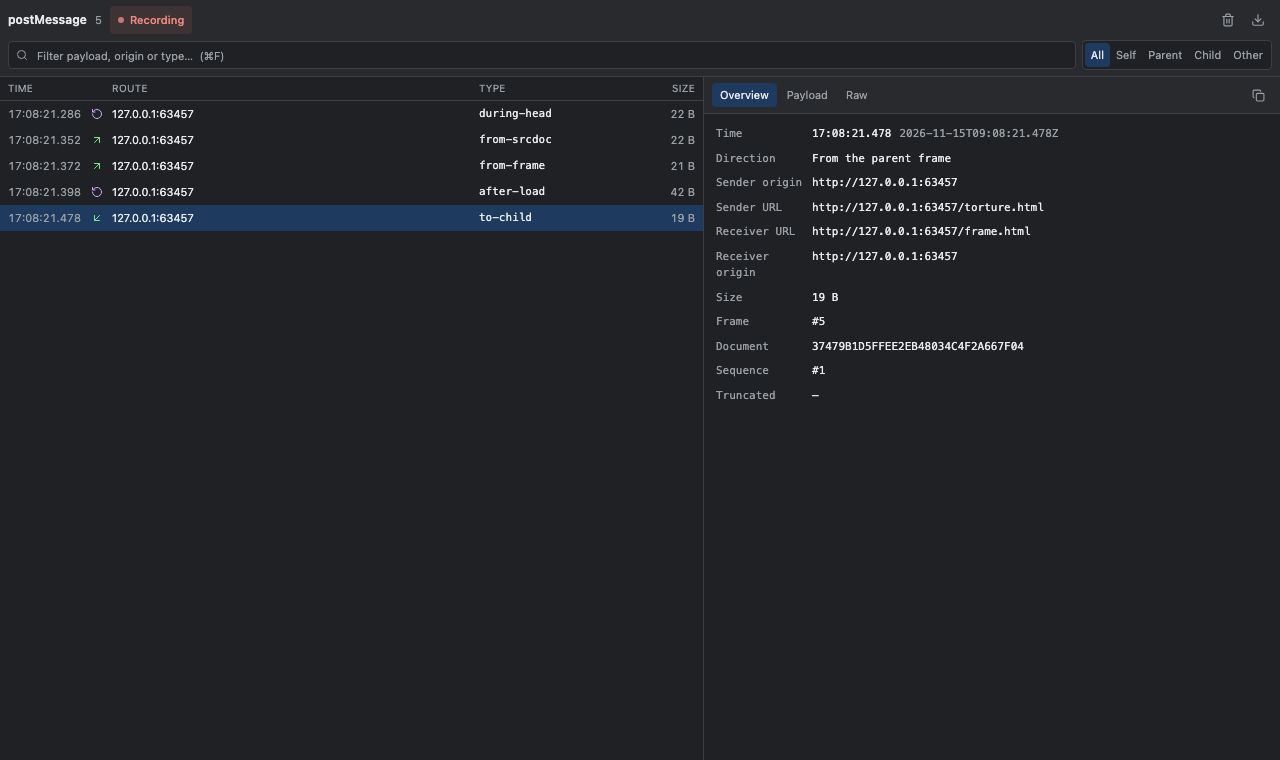
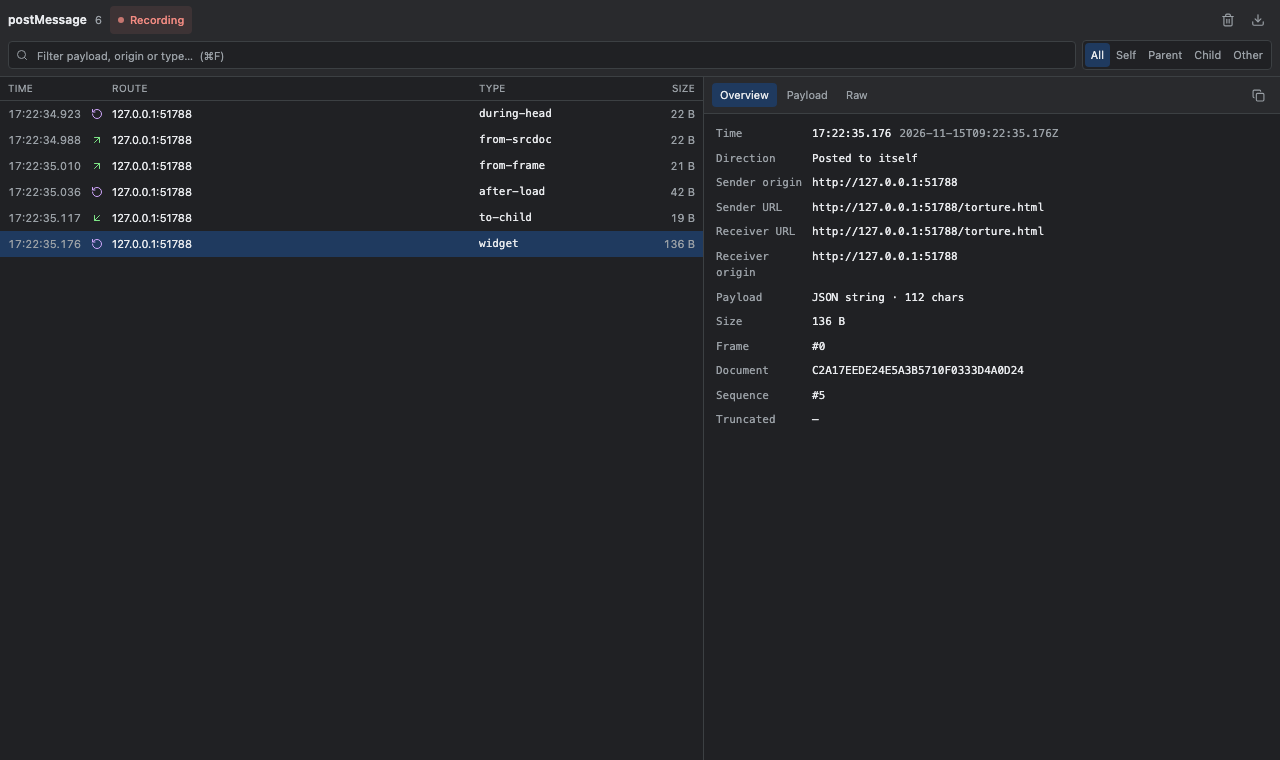
feat: enhance payload handling with JSON string parsing and new PayloadPane component

diff --git a/components/panel/MessageDetail.tsx b/components/panel/MessageDetail.tsx
@@ -1,12 +1,13 @@
 import { Copy, TriangleAlert } from 'lucide-react';
 import { useState, type ReactNode } from 'react';
 import { copyText, prettyJson } from '../../lib/clipboard';
-import { isMarker } from '../../lib/describe';
+import { isMarker, shapeOf } from '../../lib/describe';
+import { parseJsonString } from '../../lib/json-string';
 import { formatBytes, formatClock } from '../../lib/format';
 import { MARKER, isOpaqueOrigin, type CapturedMessage } from '../../lib/protocol';
 import { cn } from '../../lib/utils';
 import { IconButton } from '../ui/IconButton';
-import { PayloadTree } from './PayloadTree';
+import { PayloadPane } from './PayloadPane';
 import { directionLabel } from './types';
 
 export type DetailTab = 'overview' | 'payload' | 'raw';
@@ -56,6 +57,13 @@ function warningsFor(entry: CapturedMessage): string[] {
   return warnings;
 }
 
+function payloadSummary(data: CapturedMessage['data']): string {
+  const parsed = parseJsonString(data);
+  if (parsed?.kind === 'json') return `JSON string · ${parsed.text.length} chars`;
+  if (typeof data === 'string') return `string · ${data.length} chars`;
+  return shapeOf(data);
+}
+
 function Overview({ entry }: { entry: CapturedMessage }) {
   const warnings = warningsFor(entry);
   const truncated = entry.truncated
@@ -81,6 +89,7 @@ function Overview({ entry }: { entry: CapturedMessage }) {
         <Field label="Sender URL">{entry.sender.url ?? '—'}</Field>
         <Field label="Receiver URL">{entry.receiver.url}</Field>
         <Field label="Receiver origin">{entry.receiver.origin}</Field>
+        <Field label="Payload">{payloadSummary(entry.data)}</Field>
         <Field label="Size">{formatBytes(entry.size)}</Field>
         <Field label="Frame">#{entry.frameId}</Field>
         <Field label="Document">{entry.documentId ?? '—'}</Field>
@@ -156,13 +165,19 @@ export function MessageDetail({ entry, tab, onTabChange }: MessageDetailProps) {
         </div>
       </div>
 
-      <div className="pmc-scroll min-h-0 flex-1 overflow-auto">
-        {tab === 'overview' ? <Overview entry={entry} /> : null}
-        {tab === 'payload' ? <PayloadTree value={entry.data} /> : null}
+      <div className="flex min-h-0 flex-1 flex-col">
+        {tab === 'overview' ? (
+          <div className="pmc-scroll min-h-0 flex-1 overflow-auto">
+            <Overview entry={entry} />
+          </div>
+        ) : null}
+        {tab === 'payload' ? <PayloadPane data={entry.data} /> : null}
         {tab === 'raw' ? (
-          <pre className="whitespace-pre-wrap break-all p-3 font-mono text-[11px] leading-[1.6]">
-            {prettyJson(entry.data)}
-          </pre>
+          <div className="pmc-scroll min-h-0 flex-1 overflow-auto">
+            <pre className="whitespace-pre-wrap break-all p-3 font-mono text-[11px] leading-[1.6]">
+              {prettyJson(entry.data)}
+            </pre>
+          </div>
         ) : null}
       </div>
     </div>

diff --git a/components/panel/PayloadPane.tsx b/components/panel/PayloadPane.tsx
@@ -1,0 +1,68 @@
+import { useMemo, useState } from 'react';
+import { parseJsonString } from '../../lib/json-string';
+import type { JsonValue } from '../../lib/protocol';
+import { cn } from '../../lib/utils';
+import { PayloadTree } from './PayloadTree';
+
+type Mode = 'parsed' | 'text';
+
+const MODES: Array<{ id: Mode; label: string }> = [
+  { id: 'parsed', label: 'Parsed' },
+  { id: 'text', label: 'Text' },
+];
+
+/**
+ * Payload tab content. When the message body is a JSON *string* (a very common
+ * widget/SDK pattern), it is parsed into the same tree view the Network panel
+ * uses, with a one-click switch back to the original text.
+ */
+export function PayloadPane({ data }: { data: JsonValue }) {
+  const parsed = useMemo(() => parseJsonString(data), [data]);
+  const [mode, setMode] = useState<Mode>(parsed ? 'parsed' : 'text');
+
+  if (!parsed) {
+    return (
+      <div className="pmc-scroll min-h-0 flex-1 overflow-auto">
+        <PayloadTree value={data} />
+      </div>
+    );
+  }
+
+  return (
+    <div className="flex min-h-0 flex-1 flex-col">
+      <div className="flex shrink-0 items-center gap-2 border-b border-line bg-raised px-2 py-1">
+        <span className="rounded bg-accent/10 px-1.5 py-0.5 text-[10px] font-medium text-accent">
+          JSON string
+        </span>
+        <span className="min-w-0 truncate text-[10px] text-muted">
+          {parsed.text.length} chars · parsed for reading
+        </span>
+        <div className="ml-auto flex shrink-0 items-center rounded border border-line bg-surface p-0.5">
+          {MODES.map((option) => (
+            <button
+              key={option.id}
+              type="button"
+              onClick={() => setMode(option.id)}
+              aria-pressed={mode === option.id}
+              className={cn(
+                'h-5 rounded px-1.5 text-[10px] text-muted transition-colors hover:text-ink',
+                mode === option.id && 'bg-selected text-ink',
+              )}
+            >
+              {option.label}
+            </button>
+          ))}
+        </div>
+      </div>
+      <div className="pmc-scroll min-h-0 flex-1 overflow-auto">
+        {mode === 'parsed' ? (
+          <PayloadTree value={parsed.value} />
+        ) : (
+          <pre className="whitespace-pre-wrap break-all p-2 font-mono text-[11px] leading-[1.6]">
+            {parsed.text}
+          </pre>
+        )}
+      </div>
+    </div>
+  );
+}

diff --git a/lib/json-string.test.ts b/lib/json-string.test.ts
@@ -1,0 +1,47 @@
+import { describe, expect, it } from 'vitest';
+import { parseJsonString } from './json-string';
+
+describe('parseJsonString', () => {
+  it('parses an object encoded as a string', () => {
+    const text = '{"type":"widget","event":"command","args":["onStateChange"],"id":3}';
+    const parsed = parseJsonString(text);
+    expect(parsed?.kind).toBe('json');
+    if (parsed?.kind !== 'json') return;
+    expect(parsed.text).toBe(text);
+    expect(parsed.value).toEqual({
+      type: 'widget',
+      event: 'command',
+      args: ['onStateChange'],
+      id: 3,
+    });
+  });
+
+  it('parses arrays and ignores surrounding whitespace', () => {
+    const parsed = parseJsonString('  [1,2,3]  ');
+    expect(parsed?.kind).toBe('json');
+    if (parsed?.kind !== 'json') return;
+    expect(parsed.value).toEqual([1, 2, 3]);
+    expect(parsed.text).toBe('  [1,2,3]  ');
+  });
+
+  it('rejects everything that is not a JSON object/array string', () => {
+    expect(parseJsonString({ a: 1 })).toBeNull();
+    expect(parseJsonString(null)).toBeNull();
+    expect(parseJsonString(42)).toBeNull();
+    expect(parseJsonString('')).toBeNull();
+    expect(parseJsonString('   ')).toBeNull();
+    expect(parseJsonString('hello')).toBeNull();
+    expect(parseJsonString('123')).toBeNull();
+    expect(parseJsonString('"a string"')).toBeNull();
+    expect(parseJsonString('null')).toBeNull();
+    expect(parseJsonString('true')).toBeNull();
+    expect(parseJsonString('{"type":"broken"')).toBeNull();
+    expect(parseJsonString('[1,2')).toBeNull();
+    expect(parseJsonString('{ not json }')).toBeNull();
+  });
+
+  it('rejects a leading JSON-looking character that is not JSON', () => {
+    expect(parseJsonString('{hello}')).toBeNull();
+    expect(parseJsonString('[oops]')).toBeNull();
+  });
+});

diff --git a/lib/json-string.ts b/lib/json-string.ts
@@ -1,0 +1,37 @@
+import type { JsonValue } from './protocol';
+
+/**
+ * SDKs and widgets often post a JSON-encoded *string* instead of an object.
+ * Showing that as one escaped line is unreadable, so the panel detects it and
+ * offers a parsed tree plus the original text.
+ */
+
+export interface JsonStringPayload {
+  kind: 'json';
+  value: JsonValue;
+  text: string;
+}
+
+const MAX_PARSE_LENGTH = 2_000_000;
+
+/**
+ * Returns `null` when the value is not a string holding a JSON object/array.
+ * Scalars (`"123"`, `"null"`) are deliberately not treated as JSON payloads.
+ */
+export function parseJsonString(data: JsonValue): JsonStringPayload | null {
+  if (typeof data !== 'string') return null;
+  if (data.length > MAX_PARSE_LENGTH) return null;
+
+  const trimmed = data.trim();
+  if (trimmed.length < 2) return null;
+  const first = trimmed[0];
+  if (first !== '{' && first !== '[') return null;
+
+  try {
+    const value = JSON.parse(trimmed) as JsonValue;
+    if (value === null || typeof value !== 'object') return null;
+    return { kind: 'json', value, text: data };
+  } catch {
+    return null;
+  }
+}

diff --git a/lib/describe.ts b/lib/describe.ts
@@ -1,3 +1,4 @@
+import { parseJsonString } from './json-string';
 import { MARKER, type JsonValue } from './protocol';
 
 /** Field names that conventionally carry a message's discriminator. */
@@ -57,8 +58,16 @@ export function shapeOf(data: JsonValue): string {
 
 /**
  * The panel's primary label for a message: a discriminator when there is one,
- * otherwise `<Shape>`.
+ * otherwise `<Shape>`. JSON encoded as a string is unwrapped first, because
+ * that is how many widget SDKs send their payloads.
  */
 export function labelOf(data: JsonValue): string {
+  if (typeof data === 'string') {
+    const parsed = parseJsonString(data);
+    if (parsed?.kind === 'json') {
+      return describeType(parsed.value) ?? `<JSON ${shapeOf(parsed.value)}>`;
+    }
+    return '<string>';
+  }
   return describeType(data) ?? `<${shapeOf(data)}>`;
 }

diff --git a/lib/describe.test.ts b/lib/describe.test.ts
@@ -70,3 +70,21 @@ describe('previewOf', () => {
     expect(preview).toBe('[object Object]');
   });
 });
+
+describe('labelOf with JSON encoded strings', () => {
+  it('unwraps the discriminator from a JSON string', () => {
+    expect(labelOf('{"type":"command","id":3}')).toBe('command');
+    expect(labelOf('{"event":"onStateChange"}')).toBe('onStateChange');
+  });
+
+  it('marks JSON strings that have no discriminator', () => {
+    expect(labelOf('{"a":1}')).toBe('<JSON Object>');
+    expect(labelOf('[1,2,3]')).toBe('<JSON Array(3)>');
+  });
+
+  it('leaves plain and broken strings alone', () => {
+    expect(labelOf('hello')).toBe('<string>');
+    expect(labelOf('{"type":"broken"')).toBe('<string>');
+    expect(labelOf('"quoted"')).toBe('<string>');
+  });
+});

diff --git a/tests/fixtures/torture.html b/tests/fixtures/torture.html
@@ -22,6 +22,21 @@
         // Parent -> child: only the child's probe can observe the delivery.
         document.getElementById('same').contentWindow.postMessage({ type: 'to-child' }, '*');
       }, 200);
+      setTimeout(function () {
+        // Widget-style payload: JSON encoded as a string, like the SDKs that
+        // motivated the parsed payload view.
+        window.postMessage(
+          JSON.stringify({
+            type: 'widget',
+            event: 'command',
+            func: 'addEventListener',
+            args: ['onStateChange'],
+            id: 3,
+            channel: 'widget',
+          }),
+          '*',
+        );
+      }, 260);
     </script>
   </body>
 </html>

diff --git a/components/panel/PanelApp.tsx b/components/panel/PanelApp.tsx
@@ -25,10 +25,15 @@ interface Row {
 
 function searchable(entry: CapturedMessage): string {
   let payload: string;
-  try {
-    payload = JSON.stringify(entry.data) ?? '';
-  } catch {
-    payload = '';
+  if (typeof entry.data === 'string') {
+    // JSON encoded as a string: search the readable text, not the escapes.
+    payload = entry.data;
+  } else {
+    try {
+      payload = JSON.stringify(entry.data) ?? '';
+    } catch {
+      payload = '';
+    }
   }
   return `${entry.sender.origin} ${entry.sender.url ?? ''} ${entry.receiver.origin} ${labelOf(
     entry.data,

diff --git a/docs/architecture.md b/docs/architecture.md
@@ -242,6 +242,11 @@ buffer stays responsive.
 - **Detail** — Overview (routing, sizes, warnings), Payload (lazy tree), Raw.
   The active tab belongs to the panel, not the message, so it survives selecting
   another message: scan payload after payload with one click each.
+- **JSON encoded as a string** — widget/SDK payloads are frequently
+  `JSON.stringify`-ed before posting. The Payload tab detects that, shows the
+  parsed tree by default and offers a **Parsed / Text** switch back to the exact
+  original string; the list's TYPE column shows the inner discriminator instead
+  of `<string>`.
 - **Keyboard** — `⌘F`/`Ctrl+F` search, `↑`/`↓` move selection, `Esc` clear.
 - **Popup** — one settings card with the per-tab and master switches (the
   per-tab switch disables itself when the master switch is off), the buffer

diff --git a/README.md b/README.md
@@ -36,6 +36,8 @@ v3 is a rewrite around three rules:
 - **Payload inspector** that handles what JSON cannot: cycles, `Map`, `Set`,
   `BigInt`, `Date`, `Error`, typed arrays, `MessagePort`, DOM nodes, throwing
   getters. Truncation is reported, never silent.
+- **JSON-string aware**: a payload that is `JSON.stringify`-ed (widget SDKs love
+  this) is parsed into a tree by default, with a Parsed / Text switch.
 - **History that survives reloads** — the service worker keeps a per-tab ring
   buffer, so you can open the panel _after_ the bug.
 - **Per-tab recording** plus a master switch; scrolling up stops the list from
